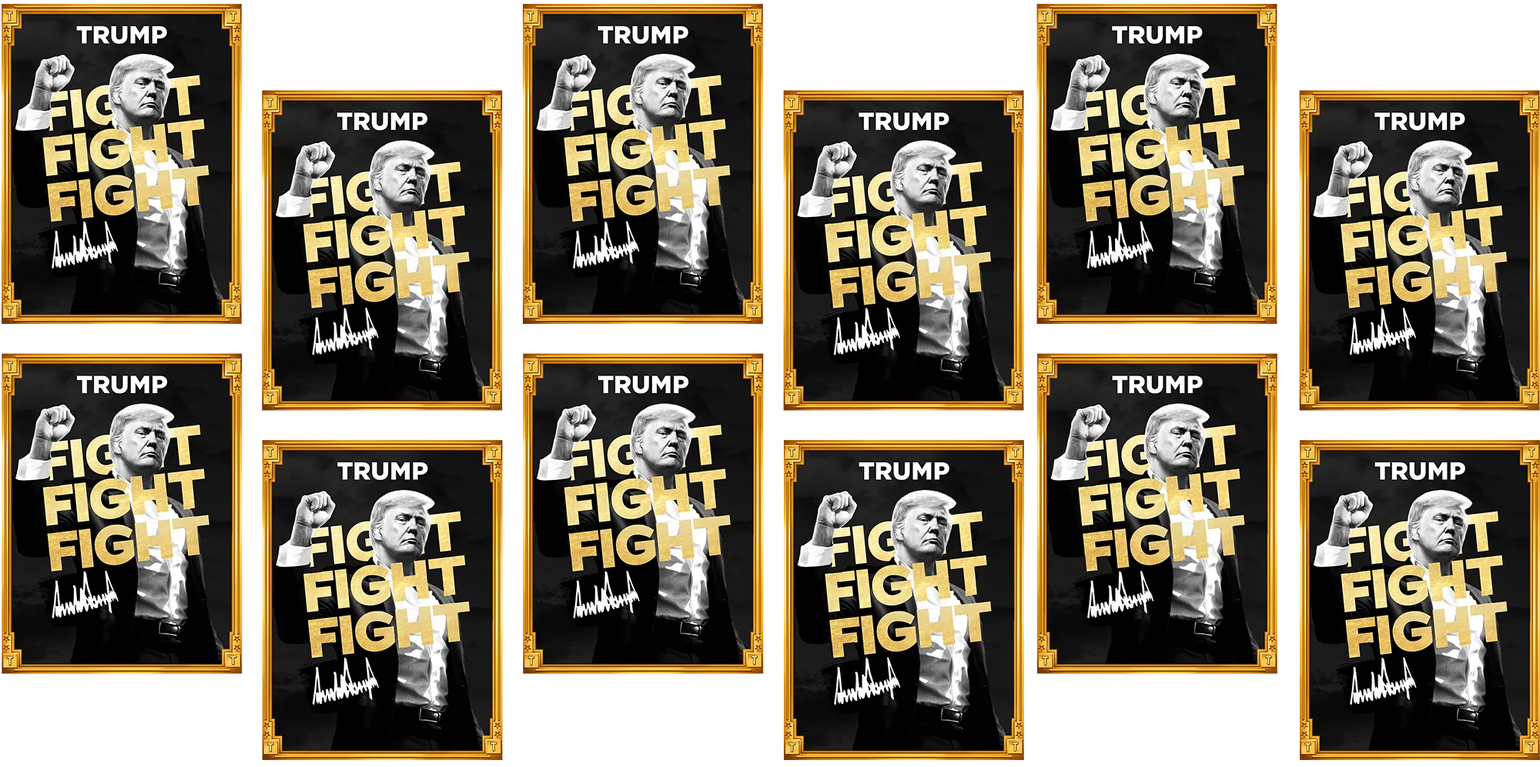
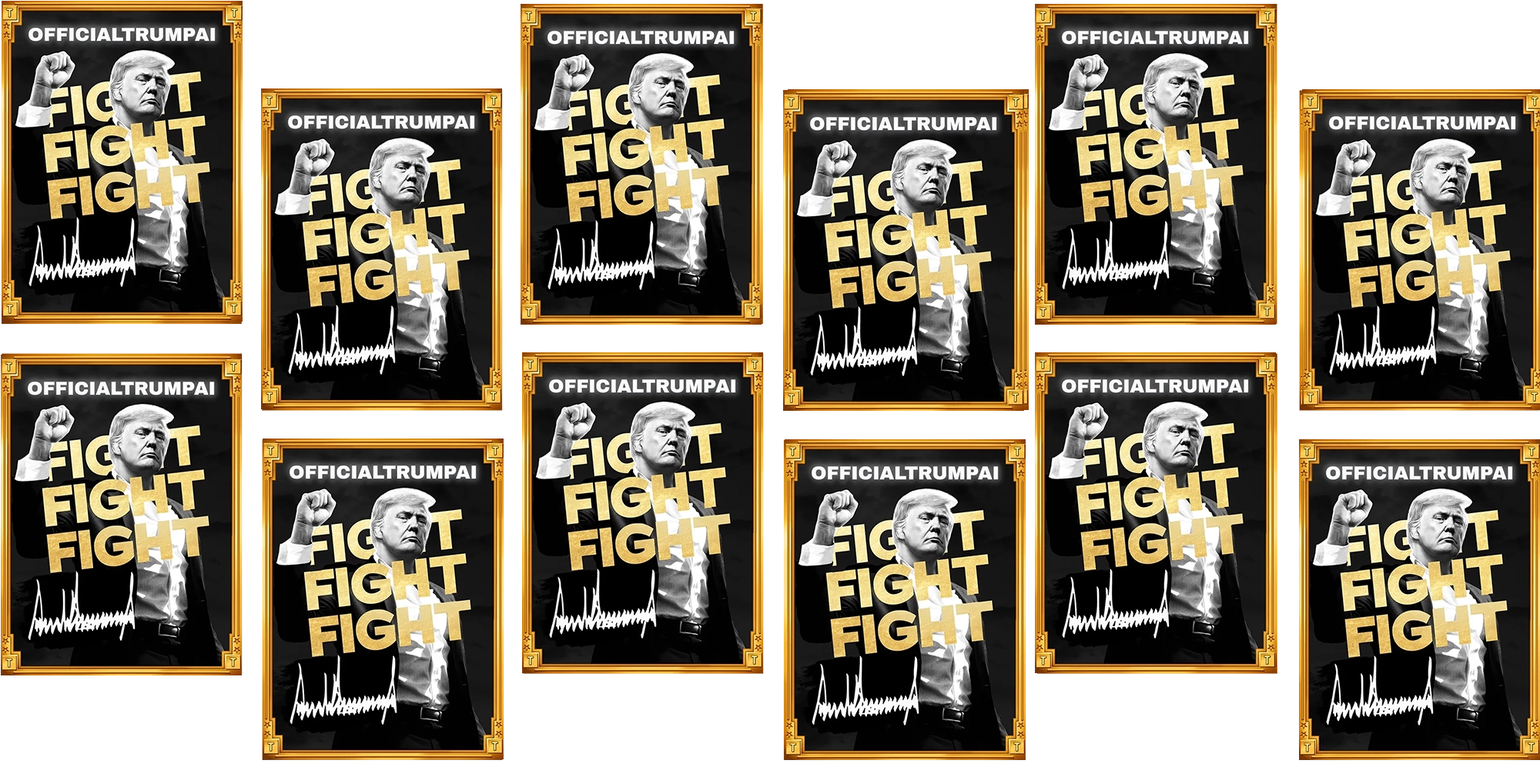
1

Changed region(s): [[0.0, 0.0, 1.0, 0.995]]

diff --git a/index.htm b/index.htm
@@ -263,9 +263,9 @@ margin: 0rem !important;
                 <div class="w-layout-grid header1_content">
                   <div id="w-node-_592b6b56-7118-5e18-27a8-df2d5cb92cfc-3dec857c" class="header1_content-left">
                     <div class="margin-bottom margin-small">
-                      <h1 class="heading-style-h1 herotext">THE ONLY<br><span class="underline-2">OFFICIAL</span><br>TrumP MEME </h1>
+                      <h1 class="heading-style-h1 herotext">THE ONLY<br><span class="underline-2">OFFICIAL</span><br>TrumPAI </h1>
                     </div>
-                    <p class="text-size-large text-color-white">Join the Trump Community. This is History in the Making!</p>
+                    <p class="text-size-large text-color-white">Join the TrumpAI Community. This is History in the Making!</p>
                   </div>
                   <div id="w-node-_592b6b56-7118-5e18-27a8-df2d5cb92d08-3dec857c" class="header1_image-wrapper">
                     <div class="image-wrap"><img sizes="(max-width: 767px) 100vw, (max-width: 991px) 85vw, 626.6953125px" srcset="images/T-Fight-Figure-3_1T-Fight-Figure-3.webp 500w, images/T-Fight-Figure-3_1T-Fight-Figure-3.webp 550w" alt="Trump with Fist in Air" src="images/T-Fight-Figure-3_1T-Fight-Figure-3.webp" loading="eager" class="_3d-image filter">
@@ -277,8 +277,7 @@ margin: 0rem !important;
                   </div>
                   <div id="w-node-bbd75fed-6fb3-debc-b268-8410cae85384-3dec857c" class="margin-top margin-medium trans feature-2 less">
                     <div class="button-group-2-buttons wider">
-                      <a href="https://moonshot.money/TRUMP" target="_blank" class="button-primary-cta max-width-medium smaller wider w-button">BUY NOW WITH DEBIT CARD</a>
-                      <a href="https://moonshot.money/TRUMP" target="_blank" class="button-primary-cta max-width-medium smaller wider w-button">BUY NOW WITH<br>CRYPTO</a>
+                      <a href="https://moonshot.money/TRUMP" target="_blank" class="button-primary-cta max-width-medium smaller wider w-button">PRESALE ON PINKSALE</a>
                     </div>
                   </div>
                   <div id="w-node-fbb5262f-94d4-ea37-481c-d73fc6da1889-3dec857c" class="max-width-large align-center">
@@ -290,7 +289,7 @@ margin: 0rem !important;
                       <div id="w-node-fbb5262f-94d4-ea37-481c-d73fc6da1899-3dec857c" class="div-block">
                         <div class="text-block">CA:</div>
                       </div>
-                      <p fs-copyclip-element="copy-this-2" id="w-node-fbb5262f-94d4-ea37-481c-d73fc6da189c-3dec857c" class="fs-copyclip_text center">6p6xgHyF7AeE6TZkSmFsko444wqoP15icUSqi2jfGiPN<br></p>
+                      <p fs-copyclip-element="copy-this-2" id="w-node-fbb5262f-94d4-ea37-481c-d73fc6da189c-3dec857c" class="fs-copyclip_text center">#<br></p>
                       <a fs-copyclip-message="Copied!" fs-copyclip-element="click-2" id="w-node-fbb5262f-94d4-ea37-481c-d73fc6da189f-3dec857c" data-w-id="fbb5262f-94d4-ea37-481c-d73fc6da189f" href="#" class="fs-copyclip_button w-button">Copy Address</a>
                       <div id="w-node-fbb5262f-94d4-ea37-481c-d73fc6da18a1-3dec857c" class="success-div">
                         <div class="text-block-13">Copied!</div>
@@ -337,7 +336,7 @@ margin: 0rem !important;
                   </div>
                 </div>
                 <div class="disclaimer extra-top">
-                  <div class="text-color-white disclaimer smaller">Trump Memes are intended to function as an expression of support for, and engagement with, the ideals and beliefs embodied by the symbol &quot;$TRUMP&quot; and the associated artwork, and are not intended to be, or to be the subject of, an investment opportunity, investment contract, or security of any type. GetTrumpMemes.com is not political and has nothing to do with any political campaign or any political office or governmental agency. See Terms &amp; Conditions <a href="terms.html" class="link">Here</a>, See Card Allocation <a href="#tokenomics" class="link">Here</a>
+                  <div class="text-color-white disclaimer smaller">OfficialTrumpAI are intended to function as an expression of support for, and engagement with, the ideals and beliefs embodied by the symbol &quot;$TRUMPOFFICIALOFFICIAL&quot; and the associated artwork, and are not intended to be, or to be the subject of, an investment opportunity, investment contract, or security of any type. OfficialTrumpAI.com is not political and has nothing to do with any political campaign or any political office or governmental agency. See Terms &amp; Conditions <a href="terms.html" class="link">Here</a>, See Card Allocation <a href="#tokenomics" class="link">Here</a>
                   </div>
                 </div>
               </div>
@@ -353,7 +352,7 @@ margin: 0rem !important;
           <div class="trump-t"><img src="images/trump-fight-card-in-circle_1.webp" loading="lazy" alt="Sample of Trump Fight Card" class="image-4"></div>
           <div class="text-block-5 space">JOIN THE COMMUNITY</div>
           <div class="trump-t"><img src="images/trump-fight-card-in-circle_1.webp" loading="lazy" alt="Sample of Trump Fight Card" class="image-4"></div>
-          <div class="text-block-5 trump">$TRUMP</div>
+          <div class="text-block-5 trump">$TRUMPOFFICIAL</div>
         </div>
         <div class="marquee-content scroll">
           <div class="trump-t"><img src="images/trump-fight-card-in-circle_1.webp" loading="lazy" alt="Sample Trump Fight Card"></div>
@@ -361,7 +360,7 @@ margin: 0rem !important;
           <div class="trump-t"><img src="images/trump-fight-card-in-circle_1.webp" loading="lazy" alt="Sample Trump Fight Card"></div>
           <div class="text-block-5 space">JOIN THE COMMUNITY</div>
           <div class="trump-t"><img src="images/trump-fight-card-in-circle_1.webp" loading="lazy" alt="Sample Trump Fight Card"></div>
-          <div class="text-block-5 trump">$TRUMP</div>
+          <div class="text-block-5 trump">$TRUMPOFFICIAL</div>
         </div>
       </div>
       <section id="Fight-facts" class="section_layout353">
@@ -415,7 +414,7 @@ margin: 0rem !important;
                   </div>
                 </div>
                 <div id="w-node-dbd1e305-7e90-46e7-a416-4c3c68743a76-3dec857c" class="layout-content-right">
-                  <div class="text-block-82">$TRUMP are now freely tradeable on the blockchain.</div>
+                  <div class="text-block-82">$TRUMPOFFICIAL are now freely tradeable on the blockchain.</div>
                   <div class="text-block-81">On July 13, 2024, President Trump faced death and came up fighting! With his fist in the air and the iconic battle cry FIGHT FIGHT FIGHT, President Trump showed the world what a LEADER is made of. His strength and courage ignited a movement becoming the most memorable meme of the century.<br> <br>Now, you can get your piece of history. This Trump Meme celebrates a leader who doesn’t back down, no matter the odds. Join the Trump Community - we’re all about fighting for what matters.</div>
                 </div>
               </div>
@@ -433,11 +432,11 @@ margin: 0rem !important;
                     <div class="margin-bottom margin-small center">
                       <h2 class="heading-style-h2-2 no-shadow">Allocation</h2>
                     </div>
-                    <p class="text-size-medium-7 center bigger">There are 200 million $TRUMP available on day one and will grow to a total of 1 billion $TRUMP over three years. Each group&#x27;s allocation are released on their own schedule over 3 years.</p>
+                    <p class="text-size-medium-7 center bigger">There are 200 million $TRUMPOFFICIAL available on day one and will grow to a total of 1 billion $TRUMPOFFICIAL over three years. Each group&#x27;s allocation are released on their own schedule over 3 years.</p>
                   </div>
                   <div class="layout1_image-wrapper"><img sizes="(max-width: 991px) 90vw, 700px" srcset="images/TMC-Allocation-Report-6-p-500.webp 500w, images/TMC-Allocation-Report-6-p-800.webp 800w, images/TMC-Allocation-Report-6-p-1080.webp 1080w, images/TMC-Allocation-Report-6.webp 1500w" alt="Allocation Chart" src="images/TMC-Allocation-Report-6.webp" loading="eager" class="layout1_image fit"></div>
                   <div class="disclaimer">
-                    <div class="text-color-white disclaimer align-center darker-3">Trump Memes are intended to function as an expression of support for, and engagement with, the ideals and beliefs embodied by the symbol &quot;$TRUMP&quot; and the associated artwork, and are not intended to be, or to be the subject of, an investment opportunity, investment contract, or security of any type. GetTrumpMemes.com is not political and has nothing to do with any political campaign or any political office or governmental agency. CIC Digital LLC, an affiliate of The Trump Organization, and Fight Fight Fight LLC collectively own 80% of the Trump Cards, subject to a 3-year unlocking schedule. CIC Digital LLC and Celebration Cards LLC, the owners of Fight Fight Fight LLC, will receive trading revenue derived from trading activities of Trump Meme Cards. See Terms &amp; Conditions <a href="terms.html" class="link">Here</a>, See Card Allocation <a href="#tokenomics" class="link">Here</a>
+                    <div class="text-color-white disclaimer align-center darker-3">Trump Memes are intended to function as an expression of support for, and engagement with, the ideals and beliefs embodied by the symbol &quot;$TRUMPOFFICIAL&quot; and the associated artwork, and are not intended to be, or to be the subject of, an investment opportunity, investment contract, or security of any type. GetTrumpMemes.com is not political and has nothing to do with any political campaign or any political office or governmental agency. CIC Digital LLC, an affiliate of The Trump Organization, and Fight Fight Fight LLC collectively own 80% of the Trump Cards, subject to a 3-year unlocking schedule. CIC Digital LLC and Celebration Cards LLC, the owners of Fight Fight Fight LLC, will receive trading revenue derived from trading activities of Trump Meme Cards. See Terms &amp; Conditions <a href="terms.html" class="link">Here</a>, See Card Allocation <a href="#tokenomics" class="link">Here</a>
                     </div>
                   </div>
                 </div>
@@ -454,33 +453,27 @@ margin: 0rem !important;
                 <div class="margin-bottom margin-xxlarge less-bottom">
                   <div class="text-align-center">
                     <div class="max-width-large-copy align-center">
-                      <h2 class="heading-4"><span class="red-text2">Buy Now</span> with a <br>Debit Card or Crypto!</h2>
+                      <h2 class="heading-4"><span class="red-text2">Buy Now</span> on <br>Pinksale.Finance</h2>
                     </div>
                   </div>
                 </div>
                 <div class="margin-top margin-medium trans feature-2">
                   <div class="button-group-2">
                     <div class="w-layout-grid grid-2">
-                      <div id="w-node-_83493597-efe4-9e4b-d339-f1a903a8bfe8-3dec857c" class="pay-div"><img src="images/icons8-apple-pay.svg" loading="lazy" alt="Apple Pay Logo" class="image-79"></div>
-                      <div id="w-node-c922fbb7-06d9-7435-0bc9-a6de0bfcd9cb-3dec857c" class="pay-div"><img src="images/icons8-visa-1.svg" loading="lazy" alt="Visa Logo" class="image-2"><img src="images/icons8-mastercard-1.svg" loading="lazy" alt="MasterCard Logo" class="image-3"></div>
-                      <div id="w-node-_83a26e60-550a-44af-9cc5-c675001ce7d7-3dec857c" class="pay-div"><img src="images/icons8-venmo-is-a-mobile-payment-service-owned-by-paypal.svg" loading="lazy" alt="Venmo Logo"></div>
-                      <div id="w-node-_331f7dc2-82cd-ba59-c266-d76d54b04d0e-3dec857c" class="pay-div white">
-                        <div class="coin-div"><img src="images/icons8-usdc.svg" loading="lazy" alt="USDC Logo" class="image-76"></div>
-                      </div>
-                      <div id="w-node-_331f7dc2-82cd-ba59-c266-d76d54b04d13-3dec857c" class="pay-div white">
-                        <div class="coin-div black"><img src="images/solana-sol-logo_1solana-sol-logo.webp" loading="lazy" sizes="(max-width: 479px) 35px, (max-width: 767px) 40px, 60px" srcset="images/solana-sol-logo_1solana-sol-logo.webp 500w, images/solana-sol-logo_1solana-sol-logo.webp 800w, images/solana-sol-logo_1solana-sol-logo.webp 1080w, images/solana-sol-logo_1solana-sol-logo.webp 1600w, images/solana-sol-logo_1solana-sol-logo.webp 2000w" alt="Solana Logo" class="image-5"></div>
-                      </div>
+                      <div id="w-node-_83493597-efe4-9e4b-d339-f1a903a8bfe8-3dec857c" class="pay-div"><img src="images/pinksale-logo.png" loading="lazy" alt="Pinksale" class="image-79"></div>
+                      <div id="w-node-c922fbb7-06d9-7435-0bc9-a6de0bfcd9cb-3dec857c" class="pay-div"><img src="images/solana-sol-logo_1solana-sol-logo.webp" loading="lazy" alt="Visa Logo" ></div>
+                      <div id="w-node-_83a26e60-550a-44af-9cc5-c675001ce7d7-3dec857c" class="pay-div"><img src="images/raydium.png" loading="lazy" alt="Venmo Logo"></div>
+                      <div id="w-node-_83a26e60-550a-44af-9cc5-c675001ce7d7-3dec857c" class="pay-div"><img src="images/cmc.png" loading="lazy" alt="Venmo Logo"></div>
+                      <div id="w-node-_83a26e60-550a-44af-9cc5-c675001ce7d7-3dec857c" class="pay-div"><img src="images/cgk.png" loading="lazy" alt="Venmo Logo"></div>
+                    
                     </div>
                   </div>
                 </div>
                 <div class="margin-top margin-medium trans feature-2">
                   <div class="button-group-2">
-                    <a href="https://moonshot.money/TRUMP" target="_blank" class="button-primary-cta max-width-medium smaller w-button">BUY NOW</a>
+                    <a href="#" target="_blank" class="button-primary-cta max-width-medium smaller w-button">BUY NOW</a>
                   </div>
-                </div>
-                <div class="div-block-9">
-                  <p class="text-size-medium spacer-small align-center">Buy Easily with</p><img src="images/moonshot_light.png" loading="lazy" sizes="(max-width: 767px) 125px, (max-width: 991px) 150px, 124px" srcset="images/moonshot_light-p-500.png 500w, images/moonshot_light-p-800.png 800w, images/moonshot_light-p-1080.png 1080w, images/moonshot_light.png 1500w" alt="Moonshot logo" class="image-77">
-                </div>
+                </div> 
                 <div class="w-layout-grid layout331_list hide">
                   <div id="w-node-_3caab71e-b960-1f2a-b88a-701d1e640cb5-3dec857c" class="layout331_item">
                     <div class="margin-bottom margin-xsmall">
@@ -503,7 +496,7 @@ margin: 0rem !important;
                       <h3 class="heading-style-h5-2"><span class="bullet-title-span">Step 2:</span> <br>Get Some SOL</h3>
                     </div>
                     <ul role="list" class="list">
-                      <li class="list-item">Fund your wallet with SOL to swap for $TRUMP</li>
+                      <li class="list-item">Fund your wallet with SOL to swap for $TRUMPOFFICIAL</li>
                       <li class="list-item">Buy SOL directly on Phantom, transfer from another wallet, or purchase on an exchange and send it to your wallet.</li>
                     </ul>
                     <div class="margin-top margin-medium">
@@ -520,7 +513,7 @@ margin: 0rem !important;
                     </div>
                     <ul role="list" class="list">
                       <li class="list-item">Connect your wallet to Raydium.</li>
-                      <li class="list-item">Paste the $TRUMP address, select trade, and confirm.</li>
+                      <li class="list-item">Paste the $TRUMPOFFICIAL address, select trade, and confirm.</li>
                       <li class="list-item">Sign the wallet signature prompt on Phantom.</li>
                     </ul>
                     <div class="margin-top margin-medium">
@@ -533,10 +526,10 @@ margin: 0rem !important;
                   </div>
                   <div id="w-node-_3caab71e-b960-1f2a-b88a-701d1e640ce2-3dec857c" class="layout331_item">
                     <div class="margin-bottom margin-xsmall">
-                      <h3 class="heading-style-h5-2"><span class="bullet-title-span">Step 4: <br></span>Swap for $TRUMP</h3>
+                      <h3 class="heading-style-h5-2"><span class="bullet-title-span">Step 4: <br></span>Swap for $TRUMPOFFICIAL</h3>
                     </div>
                     <ul role="list" class="list">
-                      <li class="list-item">Use your SOL to trade for $TRUMP </li>
+                      <li class="list-item">Use your SOL to trade for $TRUMPOFFICIAL </li>
                     </ul>
                     <div class="margin-top margin-medium">
                       <div class="button-group-3 is-center">
@@ -548,7 +541,7 @@ margin: 0rem !important;
                   </div>
                 </div>
                 <div class="disclaimer spacer-medium">
-                  <div class="text-color-white disclaimer align-center">Trump Memes are intended to function as an expression of support for, and engagement with, the ideals and beliefs embodied by the symbol &quot;$TRUMP&quot; and the associated artwork, and are not intended to be, or to be the subject of, an investment opportunity, investment contract, or security of any type. GetTrumpMemes.com is not political and has nothing to do with any political campaign or any political office or governmental agency. See Terms &amp; Conditions <a href="terms.html" class="link">Here</a>, See Card Allocation <a href="#tokenomics" class="link">Here</a>
+                  <div class="text-color-white disclaimer align-center">Trump Memes are intended to function as an expression of support for, and engagement with, the ideals and beliefs embodied by the symbol &quot;$TRUMPOFFICIAL&quot; and the associated artwork, and are not intended to be, or to be the subject of, an investment opportunity, investment contract, or security of any type. GetTrumpMemes.com is not political and has nothing to do with any political campaign or any political office or governmental agency. See Terms &amp; Conditions <a href="terms.html" class="link">Here</a>, See Card Allocation <a href="#tokenomics" class="link">Here</a>
                   </div>
                 </div>
               </div>
@@ -574,7 +567,7 @@ margin: 0rem !important;
                         <div id="w-node-_20431c52-ce06-35fe-d6b7-337deb8e2b87-3dec857c" class="div-block">
                           <div class="text-block">CA:</div>
                         </div>
-                        <p fs-copyclip-element="copy-this-2" id="w-node-b4417a1b-9bb1-2213-aef9-a238447dd2bb-3dec857c" class="fs-copyclip_text">6p6xgHyF7AeE6TZkSmFsko444wqoP15icUSqi2jfGiPN<br></p>
+                        <p fs-copyclip-element="copy-this-2" id="w-node-b4417a1b-9bb1-2213-aef9-a238447dd2bb-3dec857c" class="fs-copyclip_text">TBA<br></p>
                         <a fs-copyclip-message="Copied!" fs-copyclip-element="click-2" id="w-node-b4417a1b-9bb1-2213-aef9-a238447dd2b9-3dec857c" data-w-id="b4417a1b-9bb1-2213-aef9-a238447dd2b9" href="#" class="fs-copyclip_button w-button">Copy Address</a>
                         <div id="w-node-_5dd88b1b-3cae-8bad-a950-fae8a0971cda-3dec857c" class="success-div">
                           <div class="text-block-13">Copied!</div>
@@ -583,7 +576,7 @@ margin: 0rem !important;
                     </div>
                   </div>
                   <div class="disclaimer spacer-medium">
-                    <div class="text-color-white disclaimer align-center">Trump Memes are intended to function as an expression of support for, and engagement with, the ideals and beliefs embodied by the symbol &quot;$TRUMP&quot; and the associated artwork, and are not intended to be, or to be the subject of, an investment opportunity, investment contract, or security of any type. GetTrumpMemes.com is not political and has nothing to do with any political campaign or any political office or governmental agency. See Terms &amp; Conditions <a href="terms.html" class="link">Here</a>, See Card Allocation <a href="#tokenomics" class="link">Here</a>
+                    <div class="text-color-white disclaimer align-center">Trump Memes are intended to function as an expression of support for, and engagement with, the ideals and beliefs embodied by the symbol &quot;$TRUMPOFFICIAL&quot; and the associated artwork, and are not intended to be, or to be the subject of, an investment opportunity, investment contract, or security of any type. GetTrumpMemes.com is not political and has nothing to do with any political campaign or any political office or governmental agency. See Terms &amp; Conditions <a href="terms.html" class="link">Here</a>, See Card Allocation <a href="#tokenomics" class="link">Here</a>
                     </div>
                   </div>
                 </div>
@@ -603,12 +596,12 @@ margin: 0rem !important;
                 <div class="w-layout-grid cta1_content">
                   <div id="w-node-_10e64d89-d737-9ca7-9ec1-6a62f666a878-3dec857c" class="cta1_content-left">
                     <div class="margin-bottom margin-small">
-                      <h2 class="heading-style-h2-4 bigger">Join the Trump Meme Community!</h2>
+                      <h2 class="heading-style-h2-4 bigger">Join the Official Trump AI Community!</h2>
                     </div>
                     <div class="margin-top margin-medium">
                       <div class="button-group-4 is-center">
                         <div class="div-block-4">
-                          <div class="text-block-7"><span><strong class="bold-text-2">Mission<br></strong></span>This is YOUR chance to join a community that’s all about fighting for what matters. The TRUMP Meme encourages a culture of success &amp; optimism to make the world a better place. Go TRUMP! 👊</div>
+                          <div class="text-block-7"><span><strong class="bold-text-2">Mission<br></strong></span>This is YOUR chance to join a community that’s all about fighting for what matters. The OFFICIAL TRUMP AI encourages a culture of success &amp; optimism to make the world a better place. Go TRUMP! 👊</div>
                         </div>
                       </div>
                     </div>
@@ -628,7 +621,7 @@ margin: 0rem !important;
           <div class="text-align-center">
             <div blocks-name="max-width-large" blocks-slot-children="ST232" class="max-width-full more-bottom">
               <div class="margin-bottom spacer-medium">
-                <h1 blocks-non-deletable="true" blocks-name="heading" blocks-slot-item-canonical="EL2" class="heading-style-h1-2">JOIN TRUMP&#x27;S SPECIAL COMMUNITY.<br><span class="red-text">$TRUMP</span><br>OWN A PIECE OF HISTORY.</h1>
+                <h1 blocks-non-deletable="true" blocks-name="heading" blocks-slot-item-canonical="EL2" class="heading-style-h1-2">JOIN TRUMP&#x27;S SPECIAL COMMUNITY.<br><span class="red-text">$TRUMPOFFICIAL</span><br>OWN A PIECE OF HISTORY.</h1>
               </div>
             </div>
           </div>
@@ -676,13 +669,13 @@ margin: 0rem !important;
                       </div>
                       <div style="width:100%;height:0px" class="faq4_answer">
                         <div class="margin-bottom margin-small">
-                          <p class="paragraph-3 break">CA: 6p6xgHyF7AeE6TZkSmFsko444wqoP15icUSqi2jfGiPN<br><br>Symbol: $TRUMP</p>
+                          <p class="paragraph-3 break">CA: TBA<br><br>Symbol: $TRUMPOFFICIAL</p>
                         </div>
                       </div>
                     </div>
                     <div class="faq4_accordion">
                       <div data-w-id="3f7a7797-18ff-5fa1-ebea-f8ac1df3aad6" class="faq4_question">
-                        <div class="text-size-medium-4 text-weight-bold"><strong class="bold-text-4">How can I get Trump Memes?</strong></div>
+                        <div class="text-size-medium-4 text-weight-bold"><strong class="bold-text-4">How can I get $TrumpOfficial?</strong></div>
                         <div class="faq4_icon-wrappper">
                           <div class="icon-embed-small w-embed"><svg width="100%" height="100%" viewbox="0 0 32 32" fill="none" xmlns="http://www.w3.org/2000/svg">
                               <path d="M25.3333 15.667V16.3336C25.3333 16.7018 25.0349 17.0003 24.6667 17.0003H17V24.667C17 25.0351 16.7015 25.3336 16.3333 25.3336H15.6667C15.2985 25.3336 15 25.0351 15 24.667V17.0003H7.3333C6.96511 17.0003 6.66663 16.7018 6.66663 16.3336V15.667C6.66663 15.2988 6.96511 15.0003 7.3333 15.0003H15V7.33365C15 6.96546 15.2985 6.66699 15.6667 6.66699H16.3333C16.7015 6.66699 17 6.96546 17 7.33365V15.0003H24.6667C25.0349 15.0003 25.3333 15.2988 25.3333 15.667Z" fill="currentColor"></path>
@@ -691,7 +684,7 @@ margin: 0rem !important;
                       </div>
                       <div style="width:100%;height:0px" class="faq4_answer">
                         <div class="margin-bottom margin-small">
-                          <p class="paragraph-3">Moonshot is the easiest way. Users sign up with an email address, can deposit with Apple Pay, debit card, credit card, Venmo, Solana/USDC, and receive your $TRUMP within minutes.</p>
+                          <p class="paragraph-3">Moonshot is the easiest way. Users sign up with an email address, can deposit with Apple Pay, debit card, credit card, Venmo, Solana/USDC, and receive your $TRUMPOFFICIAL within minutes.</p>
                         </div>
                       </div>
                     </div>
@@ -742,7 +735,7 @@ margin: 0rem !important;
                     </div>
                     <div id="w-node-_133833f8-184f-4881-203d-f840337f8da6-3dec857c" class="faq4_accordion">
                       <div data-w-id="133833f8-184f-4881-203d-f840337f8da7" class="faq4_question">
-                        <div class="text-size-medium-4 text-weight-bold"><strong class="bold-text-4">What are the Trump Memes?<br></strong></div>
+                        <div class="text-size-medium-4 text-weight-bold"><strong class="bold-text-4">What are the $TrumpOfficial?<br></strong></div>
                         <div class="faq4_icon-wrappper">
                           <div class="icon-embed-small w-embed"><svg width="100%" height="100%" viewbox="0 0 32 32" fill="none" xmlns="http://www.w3.org/2000/svg">
                               <path d="M25.3333 15.667V16.3336C25.3333 16.7018 25.0349 17.0003 24.6667 17.0003H17V24.667C17 25.0351 16.7015 25.3336 16.3333 25.3336H15.6667C15.2985 25.3336 15 25.0351 15 24.667V17.0003H7.3333C6.96511 17.0003 6.66663 16.7018 6.66663 16.3336V15.667C6.66663 15.2988 6.96511 15.0003 7.3333 15.0003H15V7.33365C15 6.96546 15.2985 6.66699 15.6667 6.66699H16.3333C16.7015 6.66699 17 6.96546 17 7.33365V15.0003H24.6667C25.0349 15.0003 25.3333 15.2988 25.3333 15.667Z" fill="currentColor"></path>
@@ -766,7 +759,7 @@ margin: 0rem !important;
                       </div>
                       <div style="width:100%;height:0px" class="faq4_answer">
                         <div class="margin-bottom margin-small">
-                          <p class="paragraph-3">Please find important disclosures about the Trump Meme <a href="#tokenomics" class="link">here</a>
+                          <p class="paragraph-3">Please find important disclosures about the Trump Meme here</a>
                           </p>
                         </div>
                       </div>
@@ -822,8 +815,9 @@ margin: 0rem !important;
                 <div class="footer7_top-wrapper">
                   <a href="index.htm" id="w-node-_5bec80f7-c4f0-5bac-e08c-eee5f0a2985c-3dec857c" aria-current="page" class="footer7_logo-link w-nav-brand w--current"><img sizes="200px" srcset="images/T-Meme-Logo_1T-Meme-Logo.webp 500w, images/T-Meme-Logo_1.webp 800w" alt="Trump Meme Logo" src="images/T-Meme-Logo_1.webp" loading="lazy" class="footer7_logo"></a>
                   <div class="w-layout-grid grid-3">
-                    <a id="w-node-_5167385e-7545-445d-0bae-dc1bbd68c42e-3dec857c" href="https://x.com/GetTrumpMemes" target="_blank" class="w-inline-block"><img src="images/icons8-twitterx-1.svg" loading="lazy" alt="X logo"></a>
+                    <a id="w-node-_5167385e-7545-445d-0bae-dc1bbd68c42e-3dec857c" href="https://x.com/GetTrump47memes" target="_blank" class="w-inline-block"><img src="images/icons8-twitterx-1.svg" loading="lazy" alt="X logo"></a>
                   </div>
+                    <a id="w-node-_5167385e-7545-445d-0bae-dc1bbd68c42e-3dec857c" href="https://t.me/GetTrump47memes" target="_blank" class="w-inline-block"><img src="images/telegram-circle-blue-logo-16635.png" loading="lazy" alt="X logo"></a>
                   <div class="w-layout-grid footer7_link-list">
                     <a href="#home" class="footer7_link">Home</a>
                     <a href="#Fight-facts" class="footer7_link">About</a>
@@ -832,7 +826,7 @@ margin: 0rem !important;
                   </div>
                 </div>
                 <div class="disclaimer spacer-medium">
-                  <div class="text-block-14">Trump Memes are intended to function as an expression of support for, and engagement with, the ideals and beliefs embodied by the symbol &quot;$TRUMP&quot; and the associated artwork, and are not intended to be, or to be the subject of, an investment opportunity, investment contract, or security of any type. GetTrumpMemes.com is not political and has nothing to do with any political campaign or any political office or governmental agency.  See Terms &amp; Conditions <a href="terms.html" class="link">Here</a>, See Card Allocation <a href="#tokenomics" class="link">Here<br><br></a><span><strong class="bold-text-7">Fight Fight Fight LLC will never call, text, email or otherwise contact you to request your personal information. Please be careful.</strong></span></div>
+                  <div class="text-block-14">OfficialTrumpAI are intended to function as an expression of support for, and engagement with, the ideals and beliefs embodied by the symbol &quot;$TRUMPOFFICIAL&quot; and the associated artwork, and are not intended to be, or to be the subject of, an investment opportunity, investment contract, or security of any type. GetTrumpMemes.com is not political and has nothing to do with any political campaign or any political office or governmental agency.  See Terms &amp; Conditions <a href="#" class="link">Here</a>, See Card Allocation <a href="#" class="link">Here<br><br></a><span><strong class="bold-text-7">Fight Fight Fight LLC will never call, text, email or otherwise contact you to request your personal information. Please be careful.</strong></span></div>
                 </div>
               </div>
               <div class="line-divider"></div>
@@ -840,8 +834,8 @@ margin: 0rem !important;
                 <div class="footer7_bottom-wrapper">
                   <div class="footer7_credit-text">© 2025 Fight Fight Fight  LLC. All rights reserved.</div>
                   <div class="w-layout-grid footer7_legal-list">
-                    <a href="privacy.html" class="footer7_legal-link">Privacy Policy</a>
-                    <a href="terms.html" class="footer7_legal-link">Terms &amp; Conditions</a>
+                    <a href="#" class="footer7_legal-link">Privacy Policy</a>
+                    <a href="#" class="footer7_legal-link">Terms &amp; Conditions</a>
                   </div>
                 </div>
               </div>
